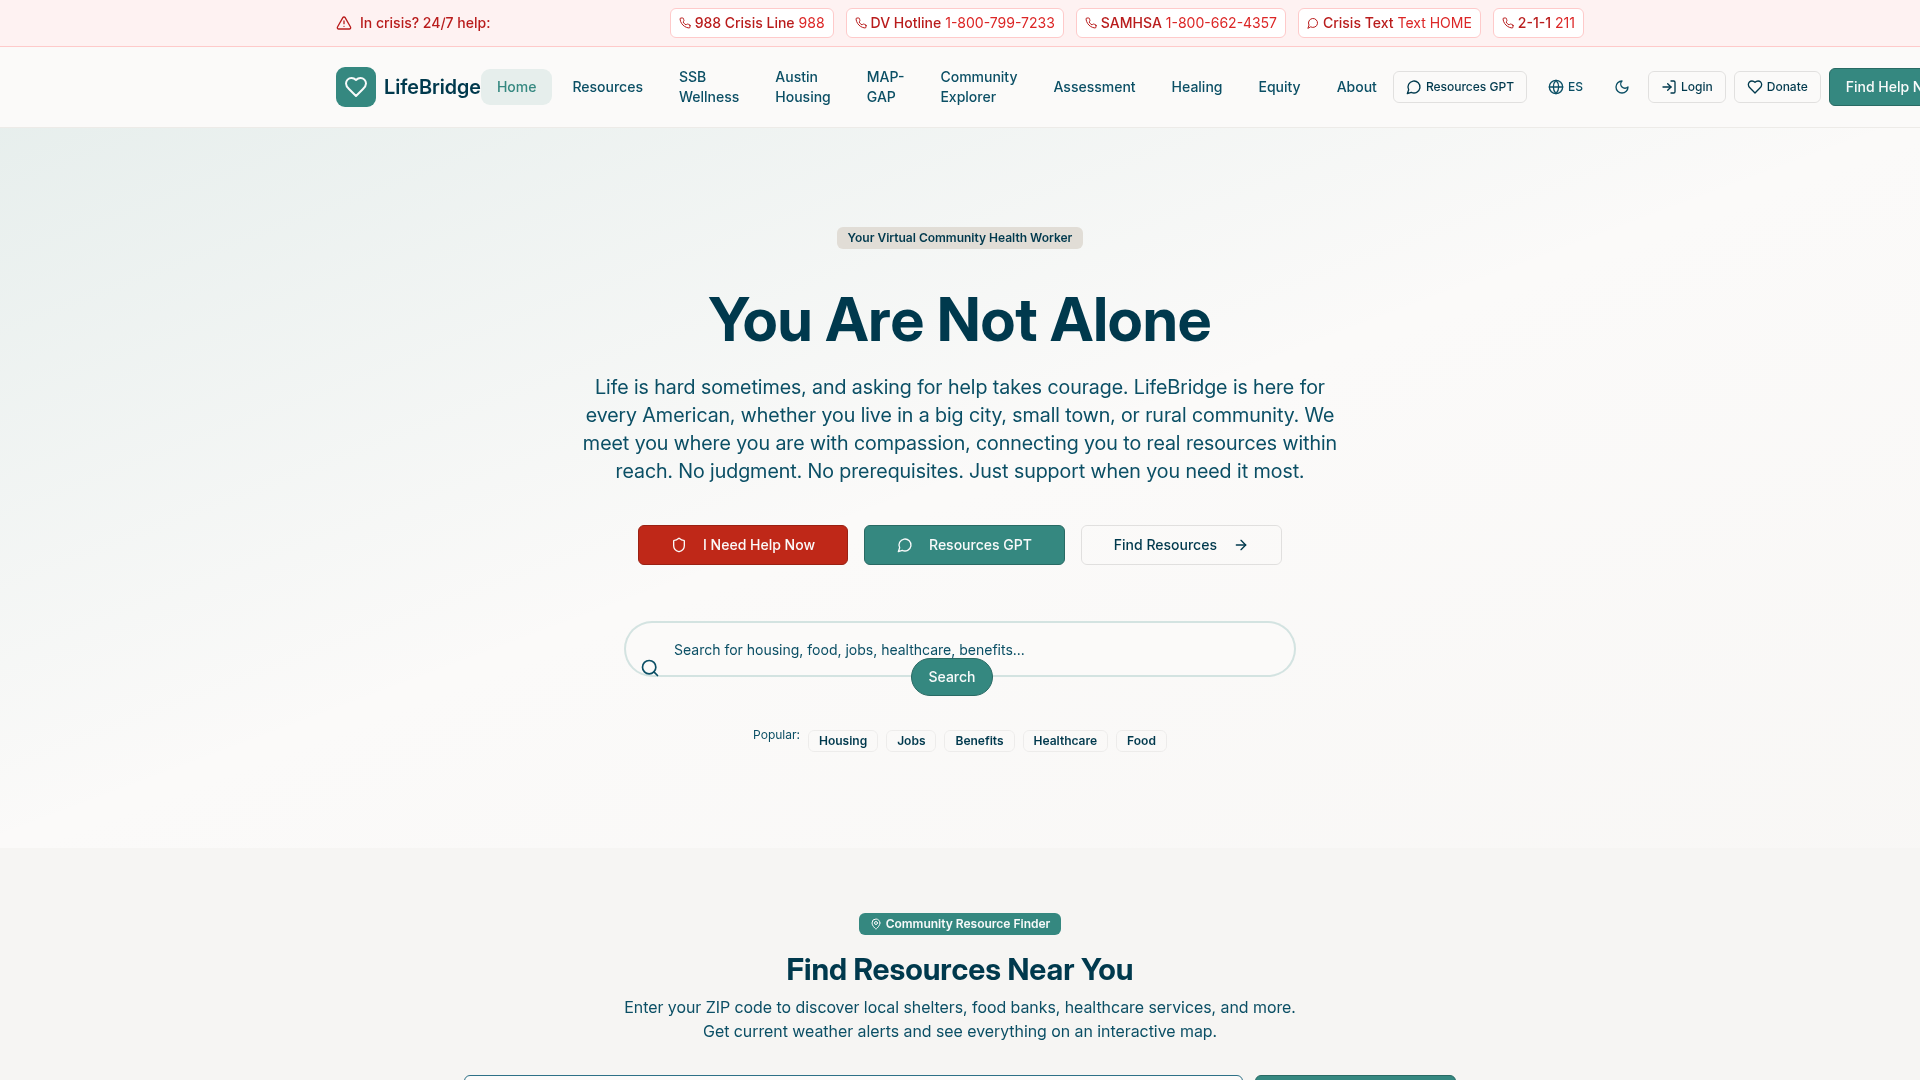
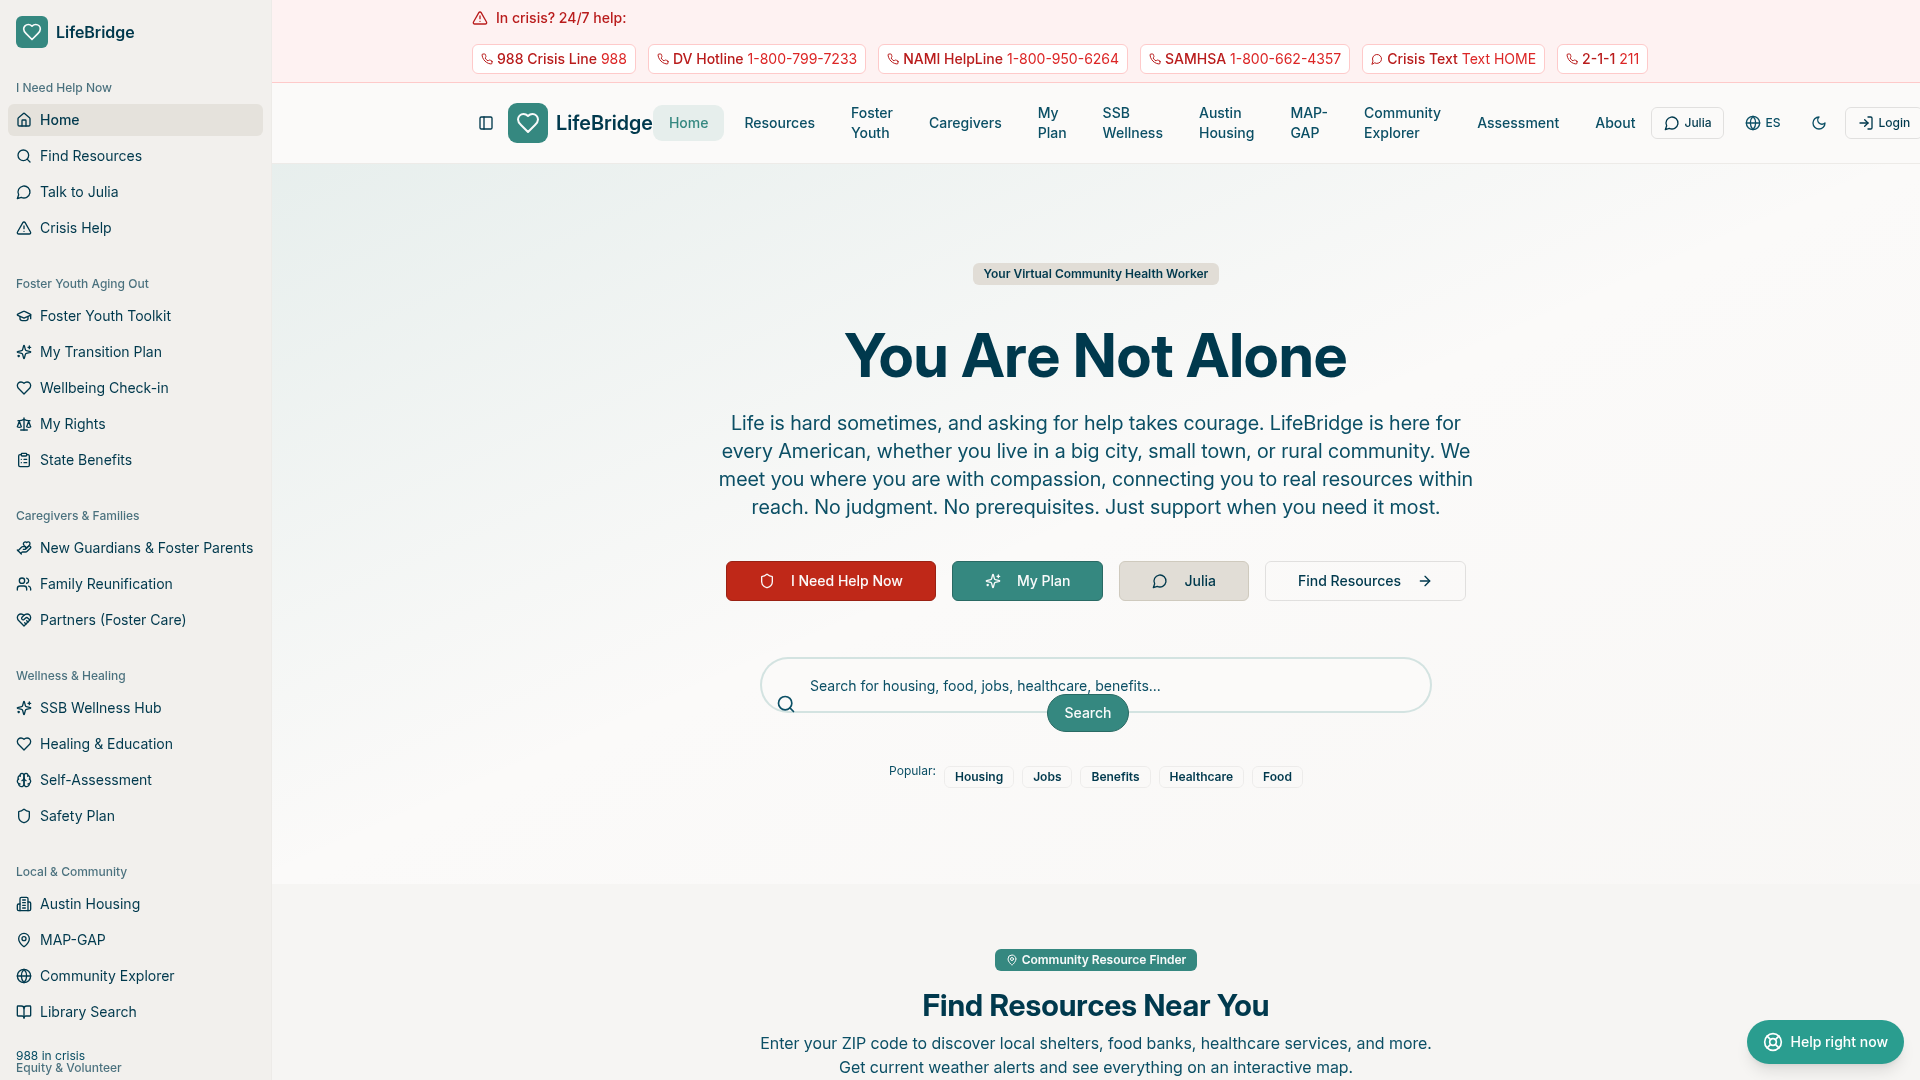
Add detailed analysis and screenshots for three community platforms
Updated documentation with deep reads of Civic Signal, LifeBridge, and ThriveUp Academy, including screenshots and alignment with grant opportunities.

Replit-Commit-Author: Agent
Replit-Commit-Session-Id: 8105c9d9-29eb-4730-9087-40eedcafe8c8
Replit-Commit-Checkpoint-Type: full_checkpoint
Replit-Commit-Event-Id: bc548704-ae03-4df1-ab70-bab395b8b683
Replit-Commit-Screenshot-Url: https://storage.googleapis.com/screenshot-production-us-central1/55376bb2-2aea-463e-b6a9-2c1d5c123d53/8105c9d9-29eb-4730-9087-40eedcafe8c8/eVBlQjO
Replit-Helium-Checkpoint-Created: true

diff --git a/docs/active-commitments.md b/docs/active-commitments.md
@@ -279,3 +279,45 @@ Full reference: `docs/grants/Top-5-Grants-URLs-and-Requirements.md`
 2. Add row to `ecosystem_platforms` with role/domain/description/capabilities/grant_alignment
 3. Add to outbound pinger list
 4. Write the unified grant-narrative trio (LexiBridge + LifeBridge + Power2ThePeople) covering communication access + SDOH navigation + legal services for OJJDP, BJA Second Chance, SAMHSA reentry, HRSA, DOL WIOA grants
+
+---
+## Three-Platform Deep Read (May 6, 2026)
+
+### Civic Signal — power2thepeople.net
+- Civic intelligence terminal. NOT legal aid. Apolitical, primary-source only.
+- 18 routes: Dashboard, Feed, Bills, Courts, Regulations, Reps, Vote, Prepare, Dormant Laws, Repealed, Policy Stories, Ask AI, Search
+- Live Civic Feed (verified counts today): 1,448 court items · 880 ordinances · 360 meetings · 74 repeals · 69 bills · 41 regs · 32 CBO estimates
+- Prepare = 10-step "affairs in order" wizard (caringinfo.org + ready.gov sources, explicit "not legal advice" disclaimer)
+- 60-second onboarding: register-to-vote, prepare-wizard, ask-AI
+- Robots.txt blocks GPTBot + ChatGPT-User (responsible AI stance)
+- Best grant fits: Knight Foundation (civic info), Democracy Fund, NSF Civic Innovation, FEMA Whole Community, NIJ/BJS court transparency, Mozilla/Ford public-interest tech
+
+### LifeBridge — lifetransitionsaid.org
+- Virtual CHW with named AI persona "Julia" + 24/7 crisis-line banner (988, DV, NAMI, SAMHSA, Crisis Text, 211)
+- Resource Locator: 2,935 indexed resources (verified today), filterable by ZIP/state/area-type/faith/charity/needs/category
+- 5 service lines (CRITICAL — not just 211):
+  1. I Need Help Now — Find Resources, Talk to Julia, Crisis Help
+  2. **Foster Youth Aging Out** — Toolkit, Transition Plan, Wellbeing Check-in, My Rights, State Benefits  ← MAJOR SPECIALTY
+  3. Caregivers & Families — New Guardians & Foster Parents, **Family Reunification**, Partners (Foster Care)
+  4. Wellness & Healing — SSB Hub, Healing & Education, Self-Assessment, Safety Plan
+  5. Local & Community — Austin Housing, MAP-GAP, Community Explorer, Library Search
+- Bilingual EN/ES
+- **REFRAME for grants:** This is a Chafee Foster Care Independence Program tool, not just a 211. Major HHS/ACF grant angle.
+- Best grant fits: HHS/ACF Chafee, HRSA CHW training, SAMHSA crisis services, HUD CoC, USDA SNAP-Ed, DOJ OVW, St. David's (Foster Youth angle), SSG Fox
+
+### ThriveUp Academy — thrivingcommunitiesforall.com
+- Schema.org markup declares EducationalOrganization with **5-course AI Mastery Curriculum** mapped K-12: AI Explorer (3-5), Guide (3-5), Architect (6-8), Innovator (9-10), Master (11-12) — TEKS-alignable
+- Marcus persona is the strongest reentry narrative across all our materials: foster youth → incarcerated → reentering, "Borders aren't real, but laws and policies are"
+- 10 service domains in sidebar; Texas as St. David's pilot deployment (national framing)
+- Footer 501(c)(3) wording correctly reads "status pending IRS determination" (just fixed)
+- Robots.txt blocks GPTBot + ChatGPT-User (matches Civic Signal stance)
+- Best grant fits: AEI (in flight), WIOA Title I Youth & Adult, OJJDP/BJA Second Chance (Marcus narrative), DOE i3/EIR (AI K-12 curriculum), NSF ITEST / CS for All, Knight/Lumina/Strada, St. David's (active evaluation)
+
+### THE TRIO NARRATIVE (use in federal proposals where integrated service delivery is scored)
+| Platform | Barrier removed | Who feels it most |
+|---|---|---|
+| Civic Signal | Can't see/understand/influence government | Returning citizens, low-income, rural, LEP |
+| LifeBridge | Can't navigate the safety net | Foster youth aging out, families in crisis, vets in non-combat life events |
+| ThriveUp Academy | Can't build skills for the new economy | Under-resourced learners of all ages |
+
+TCAF is the only operator addressing all three non-clinical drivers — civic exclusion, navigation failure, skills gap — with one shared identity, one data layer, one outcome metric set.
